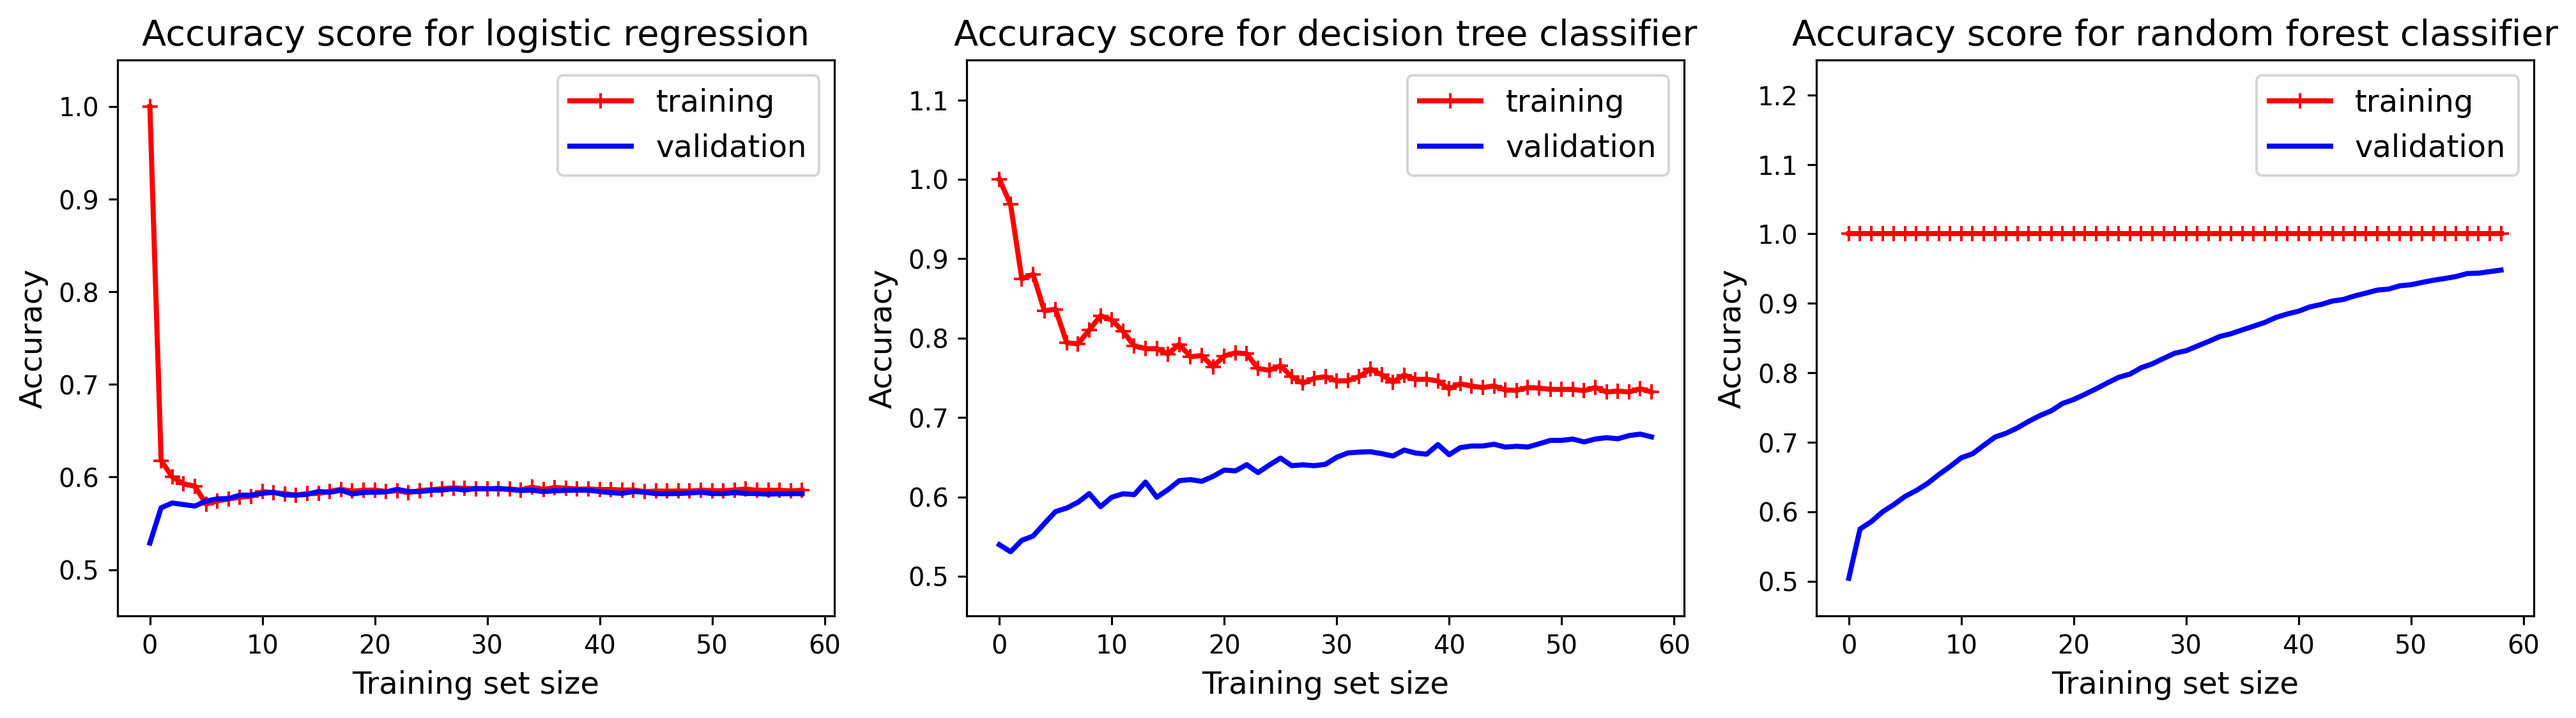
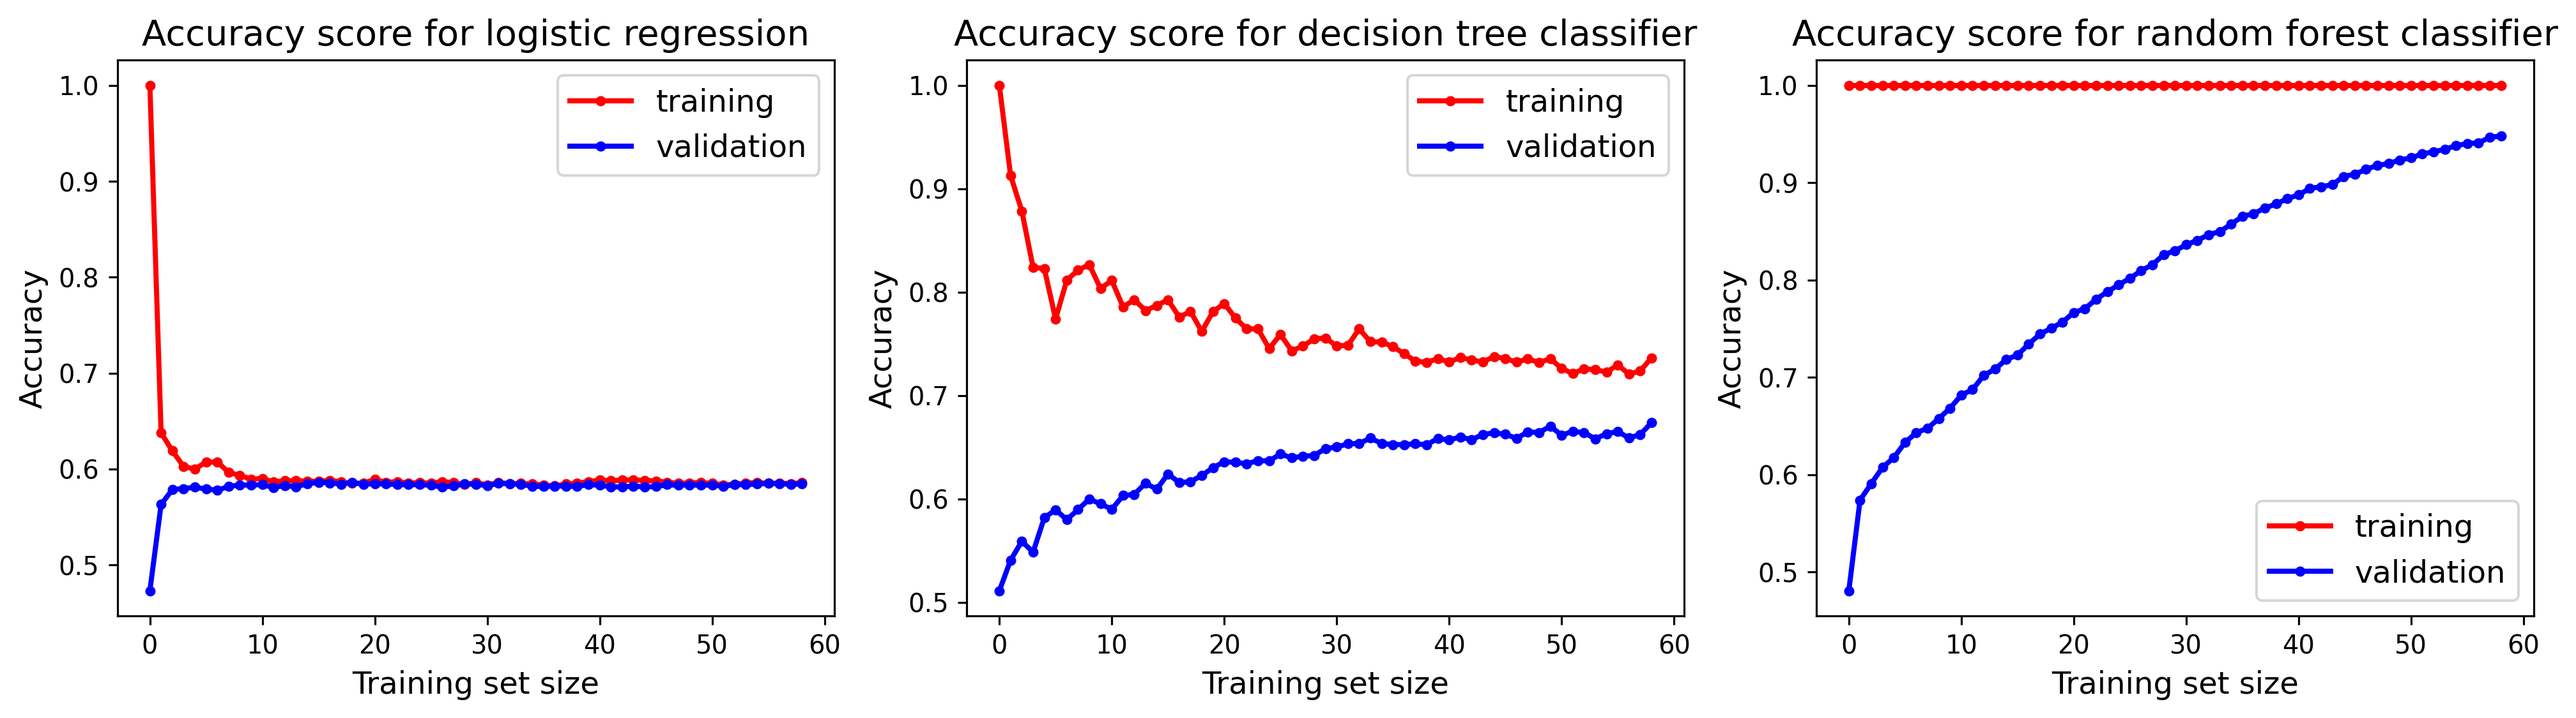
Small figure changes for learning curve plots

diff --git a/learning_curves_plot.py b/learning_curves_plot.py
@@ -36,17 +36,15 @@ model_dict = {'Logistic regression': LogisticRegression(n_jobs=-1, solver='newto
               'Random forest classifier': RandomForestClassifier(n_jobs=-1, random_state=42,
                                                                  max_depth=40, n_estimators=500)}
 
-y_range_list = [[0.45, 1.05], [0.45, 1.15], [0.45, 1.25]]
 
 fig, axes = plt.subplots(1, 3, figsize=(14, 4))
-for ax, y_range, (model_name, model_instance) in zip(axes, y_range_list, model_dict.items()):
+for ax, (model_name, model_instance) in zip(axes, model_dict.items()):
     train_errors, val_errors = learning_curves_data(model_instance, X, y)
-    ax.plot(train_errors, 'r-+', linewidth=2, label='training')
-    ax.plot(val_errors, 'b-', linewidth=2, label='validation')
-    ax.legend(loc='upper right', fontsize=12)
+    ax.plot(train_errors, 'r.-', linewidth=2, label='training')
+    ax.plot(val_errors, 'b.-', linewidth=2, label='validation')
+    ax.legend(loc='best', fontsize=12)
     ax.set_title('Accuracy score for {0:s}'.format(model_name.lower()), fontsize=14)
     ax.set_xlabel('Training set size', fontsize=12)
     ax.set_ylabel('Accuracy', fontsize=12)
-    ax.set_ylim(y_range)
 fig.tight_layout()
 plt.savefig(work_dir / 'plots/learning_curves_plot.png', dpi=288, bbox_inches='tight')
